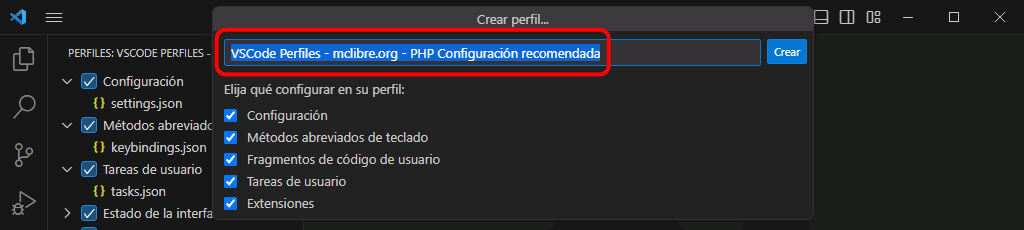
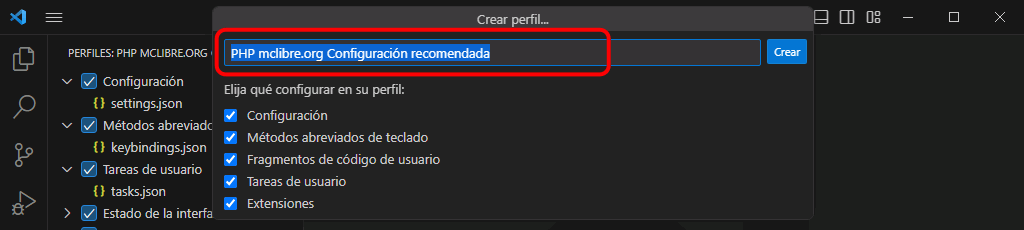
VSCode Perfil: añado capturas y explicaciones

Changed region(s): [[0.0938, 0.1826, 0.5938, 0.2739]]

diff --git a/otros/vsc-php-perfil.html b/otros/vsc-php-perfil.html
@@ -23,28 +23,26 @@
       <h2>VSC: Perfil</h2>
 
       <ul>
-        <li><a href="#perfil">Instalación</a></li>
+        <li><a href="#perfil">Importar perfil</a></li>
         <li><a href="#preferencias">Preferencias</a></li>
         <li><a href="#php-cs-fixer">PHP CS Fixer</a></li>
       </ul>
     </div>
   </nav>
 
-  <p>Visual Studio Code permite utilizar perfiles, lo que permite cambiar de forma sencilla entre distintas configuraciones (extensiones instaladas, preferencias, tareas y atajos). Además, los perfiles se pueden compartir, lo que facilita la puesta a punto del editor en distintos ordenadores. Por desgracia, los perfiles todavía tienen algunas limitaciones, por lo que la configuración a veces no puede ser completamente automática y requiere algunos pasos finales manuales.</p>
+  <p>Visual Studio Code permite utilizar perfiles, lo que permite cambiar de forma sencilla entre distintas configuraciones (extensiones instaladas, preferencias, tareas, atajos y aspecto del interfaz). Además, los perfiles se pueden compartir, lo que facilita la puesta a punto del editor en distintos ordenadores. Por desgracia, los perfiles todavía tienen algunas limitaciones, por lo que la configuración a veces no puede ser completamente automática y requiere algunos pasos finales manuales.</p>
 
-  <p>En esta lección se comenta cómo instalar y completar de configurar un perfil que incluye tanto la <a href="vsc-php-configuracion.html">Configuración recomendada</a> para seguir este curso de PHP como la <a href="https://mclibre.org/consultar/htmlcss/otros/vsc-htmlcss-configuracion.html">Configuración recomendada</a> para seguir el curso de HTML y CSS.</p>
+  <p>En esta lección se comenta cómo instalar y completar la configuración de un perfil que incluye tanto la <a href="vsc-php-configuracion.html">Configuración recomendada</a> para seguir este curso de PHP como la <a href="https://mclibre.org/consultar/htmlcss/otros/vsc-htmlcss-configuracion.html">Configuración recomendada</a> para seguir el curso de HTML y CSS. Consulte esas lecciones para conocer todo lo que incluye el perfil.</p>
 
   <p>Referencias:</p>
   <ul>
     <li>Documentación oficial <a href="https://code.visualstudio.com/docs/editor/profiles">Profiles in Visual Studio Code</a></li>
   </ul>
 
-  <!-- <p>Esta lección no detalla los pasos para configurar Visual Studio Code. En caso necesario, puede consultar la lección <a href="https://www.mclibre.org/consultar/informatica/lecciones/vsc-personalizacion.html">Personalización de VSC</a> de los apuntes de <a href="https://www.mclibre.org/consultar/informatica/index.html">Informática general</a>, en la que se explica detalladamente cómo se personaliza Visual Studio Code. En dichos apuntes también puede consultar lecciones dedicadas a Visual Studio Code, como <a href="https://www.mclibre.org/consultar/informatica/lecciones/vsc.html">Presentación general</a>, <a href="https://www.mclibre.org/consultar/informatica/lecciones/vsc-instalacion.html">Instalación</a>, <a href="https://www.mclibre.org/consultar/informatica/lecciones/vsc-uso.html">Uso</a> y otras, que le pueden ser de ayuda si no conoce Visual Studio Code.</p> -->
-
   <section id="perfil">
-    <h2>Importación del perfil recomendado</h2>
+    <h2>Importar el perfil recomendado</h2>
 
-    <p>La URL del perfil recomendado para seguir estos apuntes es: <a href="https://gist.github.com/BartolomeSintes/b2ad1d8c4e87bf8015c5c136a095134f">https://gist.github.com/BartolomeSintes/b2ad1d8c4e87bf8015c5c136a095134f</a></p>
+    <p>La URL del perfil recomendado para seguir estos apuntes en Windows es: <a href="https://gist.github.com/BartolomeSintes/b2ad1d8c4e87bf8015c5c136a095134f">https://gist.github.com/BartolomeSintes/b2ad1d8c4e87bf8015c5c136a095134f</a></p>
 
     <p>Una vez importado este perfil en Visual Studio Code, se requieren un par de ajustes adicionales que se comentan en los apartados siguientes.</p>
 
@@ -62,7 +60,7 @@
           <img src="../img/vscode/vsc-perfil-importar-2.png" alt="VSC. Importar perfil recomendado" width="1024" height="270">
         </p>
       </li>
-      <li>La URL del perfil recomendado para seguir estos apuntes es: <a href="https://gist.github.com/BartolomeSintes/b2ad1d8c4e87bf8015c5c136a095134f">https://gist.github.com/BartolomeSintes/b2ad1d8c4e87bf8015c5c136a095134f</a></li>
+      <li>La URL del perfil recomendado para seguir estos apuntes en Windows es: <a href="https://gist.github.com/BartolomeSintes/b2ad1d8c4e87bf8015c5c136a095134f">https://gist.github.com/BartolomeSintes/b2ad1d8c4e87bf8015c5c136a095134f</a></li>
       <li>Copie y pegue el enlace en la caja de texto y pulse <kbd>Intro</kbd>:
         <p class="captura">
           <img src="../img/vscode/vsc-perfil-importar-3.png" alt="VSC. Importar perfil recomendado" width="1024" height="175">
@@ -78,12 +76,12 @@
           <img src="../img/vscode/vsc-perfil-importar-5.png" alt="VSC. Importar perfil recomendado" width="1024" height="230">
         </p>
       </li>
-      <li>Se recomienda cambiar ese nombre por un nombre más corto y que empiece de forma distinta al resto de perfiles. En este caso, el nombre podría comenzar por "PHP", por ejemplo. para terminar, haga clic en el botón "Crear".
+      <li>Ese nombre se puede cambiar, por ejemplo, por un nombre más corto. Es aconsejable que el nombre de cada perfil empiece de forma distinta (el motivo se explica en la captura siguiente). Para terminar, haga clic en el botón "Crear".
         <p class="captura">
           <img src="../img/vscode/vsc-perfil-importar-6.png" alt="VSC. Importar perfil recomendado" width="1024" height="230">
         </p>
       </li>
-      <li>Una vez creado el perfil, Visual Studio se reiniciará cargando el perfil. El nombre del perfil activo se muestra en la parte superior de la ventana. El icono de la rueda dentada muestra también un par de caracteres que correponden al principio del nombre del perfil.
+      <li>Una vez creado el perfil, Visual Studio se reiniciará cargando el perfil. El nombre del perfil activo se muestra en la parte superior de la ventana. El icono de la rueda dentada muestra también un par de caracteres que correponden al principio del nombre del perfil. Si los nombres de perfiles empiezan de forma distinta, de un vistazo se puede identificar el perfil que se está utilizando.
         <p class="captura">
           <img src="../img/vscode/vsc-perfil-importar-7.png" alt="VSC. Importar perfil recomendado" width="1024" height="576">
         </p>
@@ -101,10 +99,25 @@
   <section id="preferencias">
     <h2>Preferencias</h2>
 
-    <p>No es posible exportar o importar en un perfil rutas de archivos en el archivo de preferencias, por lo que la preferencia que indica la ruta al ejecutable php no está incluida en el perfil. En realidad, sí que está incluida pero comentada, por lo que es necesario descomentarla:</p>
+    <p>En un perfil no es posible exportar o importar rutas de archivos en el archivo de preferencias, por lo que la preferencia que indica la ruta al ejecutable php no está incluida en el perfil y debe añadirse de forma manual. Para facilitar esa tarea, la preferencia está incluida, pero comentada, por lo que basta con descomentarla:</p>
 
     <ul>
-      <li>Busque la preferencia "php.validate.executablePath" en el archivo de preferencias ...
+      <li>Haga clic en la rueda dentada y elija la opción <span class="soft-menu">Configuración</span>:
+        <p class="captura">
+          <img src="../img/vscode/vsc-perfil-configuracion-1.png" alt="VSC. Modificar preferencias de configuración" width="1024" height="350">
+        </p>
+      </li>
+      <li>Se abrirá una pestaña con las preferencias de configuración. Si no hemos abierto ninguna carpeta ni área de trabajo, esta ventana muestra únicamente las preferencias globales (Usuario):
+        <p class="captura">
+          <img src="../img/vscode/vsc-perfil-configuracion-2.png" alt="VSC. Modificar preferencias de configuración" width="1024" height="205">
+        </p>
+      </li>
+      <li>Se abrirá una nueva pestaña mostrando el nombre del fichero, su ubicación en el disco y el contenido.:
+        <p class="captura">
+          <img src="../img/vscode/vsc-perfil-configuracion-3.png" alt="VSC. Modificar preferencias de configuración" width="1024" height="185">
+        </p>
+      </li>
+      <li>Busque la preferencia "php.validate.executablePath" en el archivo de preferencias (al comienzo del archivo se indica la línea en la que se encuentra esta preferencia)...
 
         <div class="codigo">
           <pre>
@@ -129,16 +142,19 @@
 </pre>
         </div>
       </li>
+      <li>Guarde el archivo y cierre las pestañas abiertas.</li>
     </ul>
   </section>
 
   <section id="php-cs-fixer">
     <h2>Archivo de configuración de PHP CS Fixer</h2>
 
-    <p>No es posible incluir en la exportación un perfil archivos adicionales, por lo que es necesario crear manualmente el archivo de configuración de la extensión PHP CS Fixer.</p>
+    <p>En un perfil no es posible incluir archivos adicionales a los propios de Visual Studio Code, por lo que es necesario crear manualmente el archivo de configuración de la extensión PHP CS Fixer incluida en el perfil recomendado.</p>
+
+    <p>Este archivo debe crearse en la carpeta .vscode situada la raíz de la carpeta de trabajo. En caso de no existir esa carpeta, debe crearse.</p>
 
     <ul>
-      <li>Cree la carpeta .vscode en la carpeta raíz.</li>
+      <li>Cree la carpeta .vscode en la carpeta raíz de la carpeta de trabajo.</li>
       <li>Cree el fichero <strong>php-cs-fixer-config.php</strong> en la carpeta .vscode</li>
       <li>Copie en este fichero la configuración recomendada para PHP CS Fixer que se muestra a continuación.
         <div class="codigo copy">
@@ -211,7 +227,7 @@
   </section>
 
   <footer>
-    <p class="ultmod">Última modificación de esta página: 15 de septiembre de 2023</p>
+    <p class="ultmod">Última modificación de esta página: 21 de septiembre de 2023</p>
 
     <p class="licencia">
       <a rel="license" href="https://creativecommons.org/licenses/by-sa/4.0/deed.es_ES"><img src="../varios/iconos/icono-cc-by-sa.svg" alt="Licencia Creative Commons" title="Licencia Creative Commons BY-SA" width="120" height="42"></a><br>
